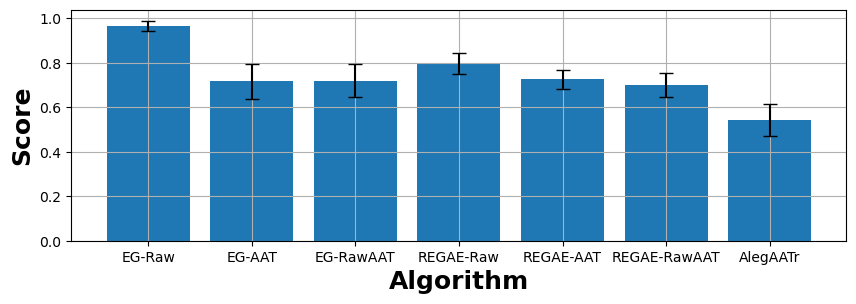
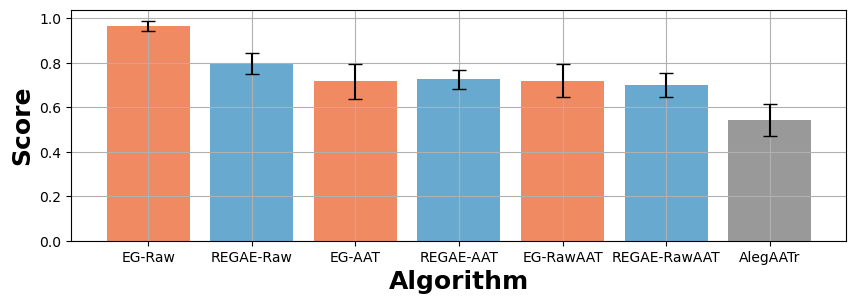
Save adaptability data for offline analysis (ex: anova)

diff --git a/simulations/adaptability_scores.py b/simulations/adaptability_scores.py
@@ -102,8 +102,10 @@ for run_num in range(N_TRAIN_TEST_RUNS):
 
 
 conditions = ['Defect', 'Self-Play', 'Cooperate', 'Adaptability']
-alg_names = ['DQN', 'RAlegAATr', 'AleqgAATr', 'RawO', 'RAAT', 'QAlegAATr', 'AlegAATr']
-alg_plot_names = ['EG-Raw', 'EG-AAT', 'EG-RawAAT', 'REGAE-Raw', 'REGAE-AAT', 'REGAE-RawAAT', 'AlegAATr']
+alg_names = ['DQN', 'RawO', 'RAlegAATr', 'RAAT', 'AleqgAATr', 'QAlegAATr', 'AlegAATr']
+alg_plot_names = ['EG-Raw', 'REGAE-Raw', 'EG-AAT', 'REGAE-AAT', 'EG-RawAAT', 'REGAE-RawAAT', 'AlegAATr']
+colors = ['#ef8a62', '#67a9cf', '#ef8a62', '#67a9cf', '#ef8a62', '#67a9cf', '#999999']
+a_scores, learning_algs, features = [], [], []
 for cond in ['d', 'c', 'a']:
     avgs, ses = [], []
     for alg in alg_names:
@@ -111,10 +113,25 @@ for cond in ['d', 'c', 'a']:
         avgs.append(np.mean(alg_data))
         ses.append(np.std(alg_data, ddof=1) / np.sqrt(len(alg_data)))
 
+        if cond == 'a' and alg != 'AlegAATr':
+            a_scores.extend(alg_data)
+            name = alg_plot_names[alg_names.index(alg)]
+            learning_alg = name.split('-')[0]
+            feature_set = name.split('-')[1]
+            learning_algs.extend([learning_alg] * len(alg_data))
+            features.extend([feature_set] * len(alg_data))
+
     plt.figure(figsize=(10, 3))
     plt.grid()
-    plt.bar(alg_plot_names, avgs, yerr=ses, capsize=5)
+    plt.bar(alg_plot_names, avgs, yerr=ses, capsize=5, color=colors)
     plt.xlabel('Algorithm', fontsize=18, fontweight='bold')
     plt.ylabel('Score', fontsize=18, fontweight='bold')
     plt.savefig(f'../simulations/{cond}.png', bbox_inches='tight')
     plt.clf()
+
+df = pd.DataFrame({
+    'adaptability': a_scores,
+    'learning_alg': learning_algs,
+    'feature_set': features
+})
+df.to_csv('./prisoners_adaptability_results.csv', index=False)
